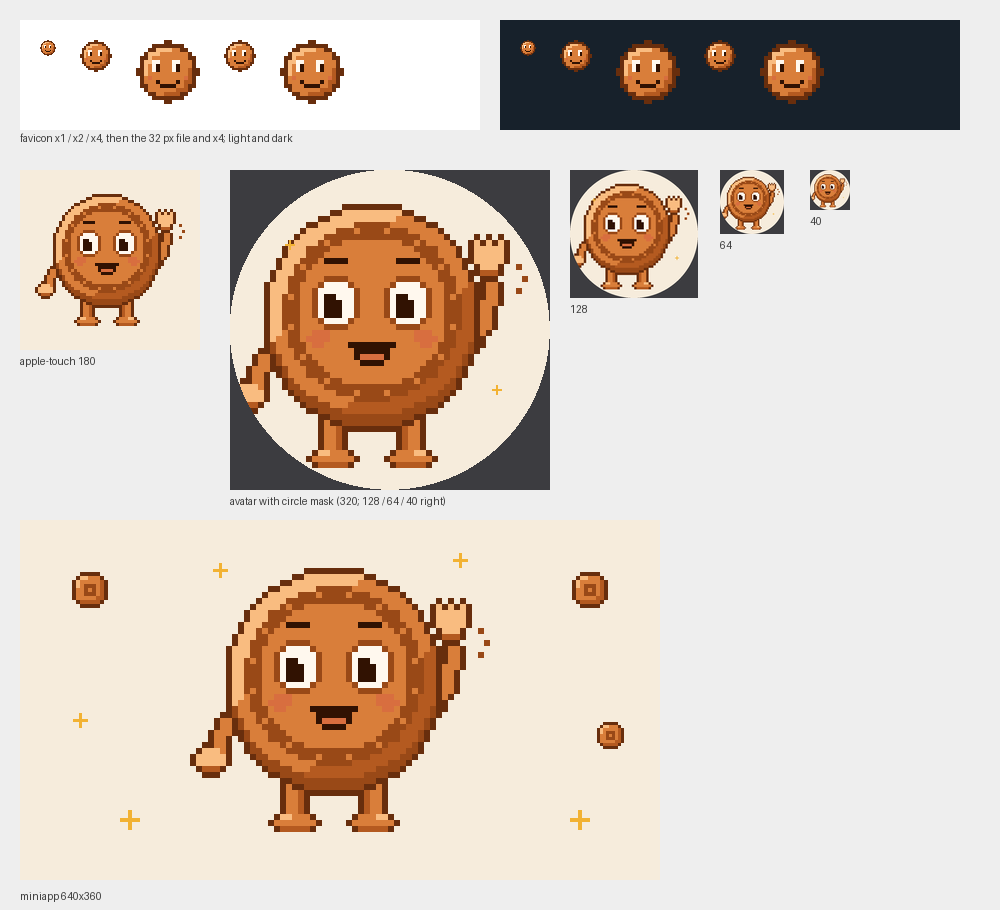
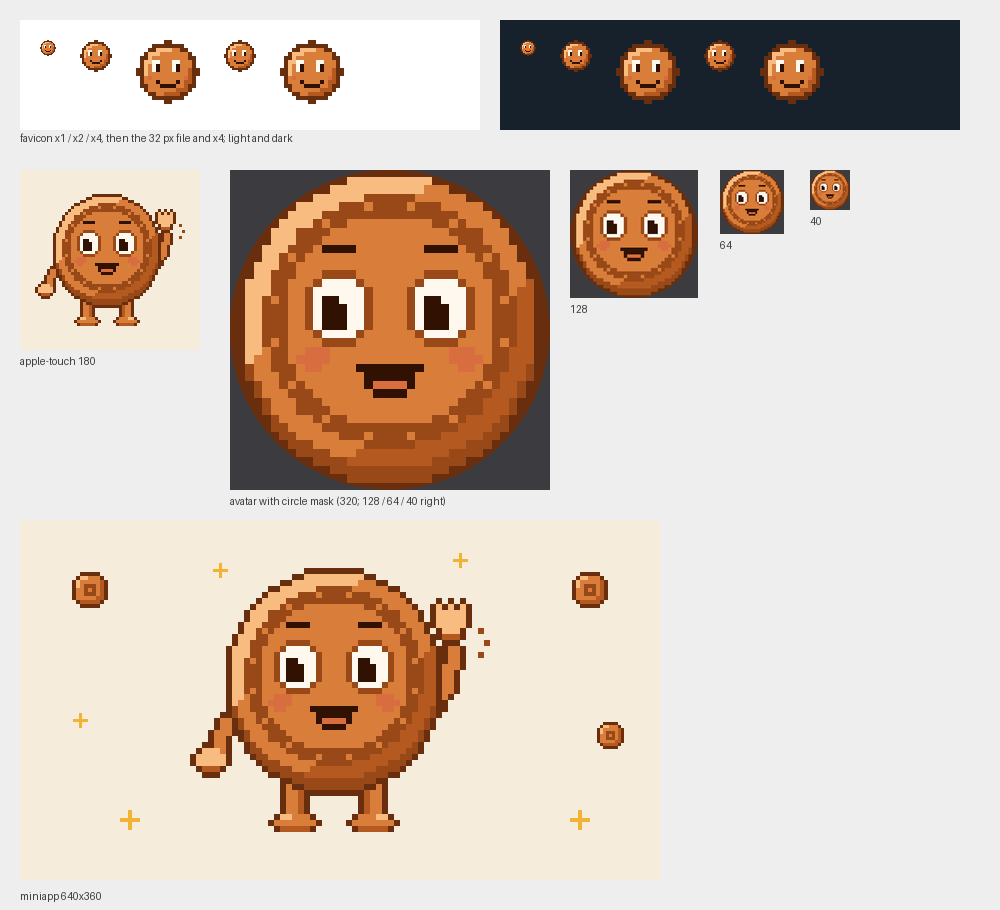
Аватар бота: круглая монета «в край» без рук и ног
Telegram режет аватар в круг, и круглая монета заполняет его целиком:
лицо в 2–3 раза крупнее, глаза и улыбка читаются даже в 28 px.
Фон — цвет контура, поэтому срез по кругу выглядит как обводка монеты.

Changed region(s): [[0.217, 0.1846, 0.868, 0.5538]]

diff --git a/design/mascot/pixel/brand.py b/design/mascot/pixel/brand.py
@@ -144,15 +144,23 @@ def apple_touch():
 
 
 def avatar():
-    """Поясной кадр: лицо-монета и машущая рука крупно, ножки уходят за круг."""
-    c = Image.new('RGBA', (640, 640), CREAM + (255,))
-    im = S.render(S.compose('greet'))
-    k = 12
-    cx, cy = 285, 285   # центр лица чуть выше центра круга
-    place(c, im, cx - 28 * k, cy - 28 * k, k)
-    for x, y in ((120, 150), (535, 440)):
-        centered(c, spark_img(True), 4, x, y)
-    return c
+    """Монета «в край» без рук и ног: Telegram режет аватар в круг, и круглая монета заполняет его целиком.
+    Фон — цвет контура: углы срезает круг, а край выглядит продолжением обводки монеты."""
+    coin = S.coin_fill()
+    coin.update(S.face('greet'))
+    lay = S.outline(coin)
+    xs = [x for x, _ in lay]
+    ys = [y for _, y in lay]
+    x0, y0 = min(xs), min(ys)
+    w, h = max(xs) - x0 + 1, max(ys) - y0 + 1
+    side = max(w, h)
+    im = Image.new('RGBA', (side, side), P['O'] + (255,))
+    for (x, y), ch in lay.items():
+        im.putpixel((x - x0 + (side - w) // 2, y - y0 + (side - h) // 2), P[ch] + (255,))
+    k = -(-640 // side)  # наименьшее целое увеличение, покрывающее 640
+    big = up(im, k)
+    m = (big.width - 640) // 2
+    return big.crop((m, m, m + 640, m + 640))
 
 
 def miniapp():

diff --git a/design/mascot/README.md b/design/mascot/README.md
@@ -42,7 +42,7 @@
 
 | Эмоция | Анимация | Где использовать |
 |---|---|---|
-| `greeting` — привет | `wave` — машет; `idle` — покой с дыханием и морганием | Home, онбординг, аватар бота, картинка Mini App |
+| `greeting` — привет | `wave` — машет; `idle` — покой с дыханием и морганием | Home, онбординг, аватар бота (только монета), картинка Mini App |
 | `settled` — все в расчёте | `settled` — покачивается, искорки мерцают | баланс и карточка группы, когда все в расчёте |
 | `thinking` — задумалась | `thinking` — мысли-монетки появляются по одной | пустые экраны: нет групп, нет трат |
 | `worried` — неловко | `worried` — дрожь и капля пота | большие долги. Сочувствие, не испуг |
@@ -58,7 +58,7 @@
 
 | Где | Поле |
 |---|---|
-| Бренд-материалы: аватар, картинка Mini App, стикеры, промо | ¼ ширины монеты |
+| Бренд-материалы: картинка Mini App, стикеры, промо (аватар — монета в край, без поля) | ¼ ширины монеты |
 | Интерфейс: Home, пустые состояния, оверлеи | ⅛ ширины монеты, но не меньше 8 px |
 
 **Размеры в интерфейсе:**
@@ -82,7 +82,7 @@
 
 **Для продукта** — `web/public/brand/`:
 - `favicon.svg` (16×16 из `<rect>`), `favicon-32.png`, `apple-touch-icon-180.png`
-- `bot-avatar-640.png` — аватар бота (поясной кадр, рассчитан на круглую обрезку)
+- `bot-avatar-640.png` — аватар бота: круглая монета «в край» без рук и ног, фон цвета контура (Telegram режет аватар в круг, монета заполняет его целиком)
 - `miniapp-640x360.png` — картинка Mini App для @BotFather
 - `mascot/kopeika.png`, `mascot/kopeika-dark.png` — атлас всех кадров в 1×, ячейки 56×54
 - `mascot/kopeika.json` — `{cell, animations: {имя: [{x, y, ms}]}, emotions: {имя: {x, y}}}`
